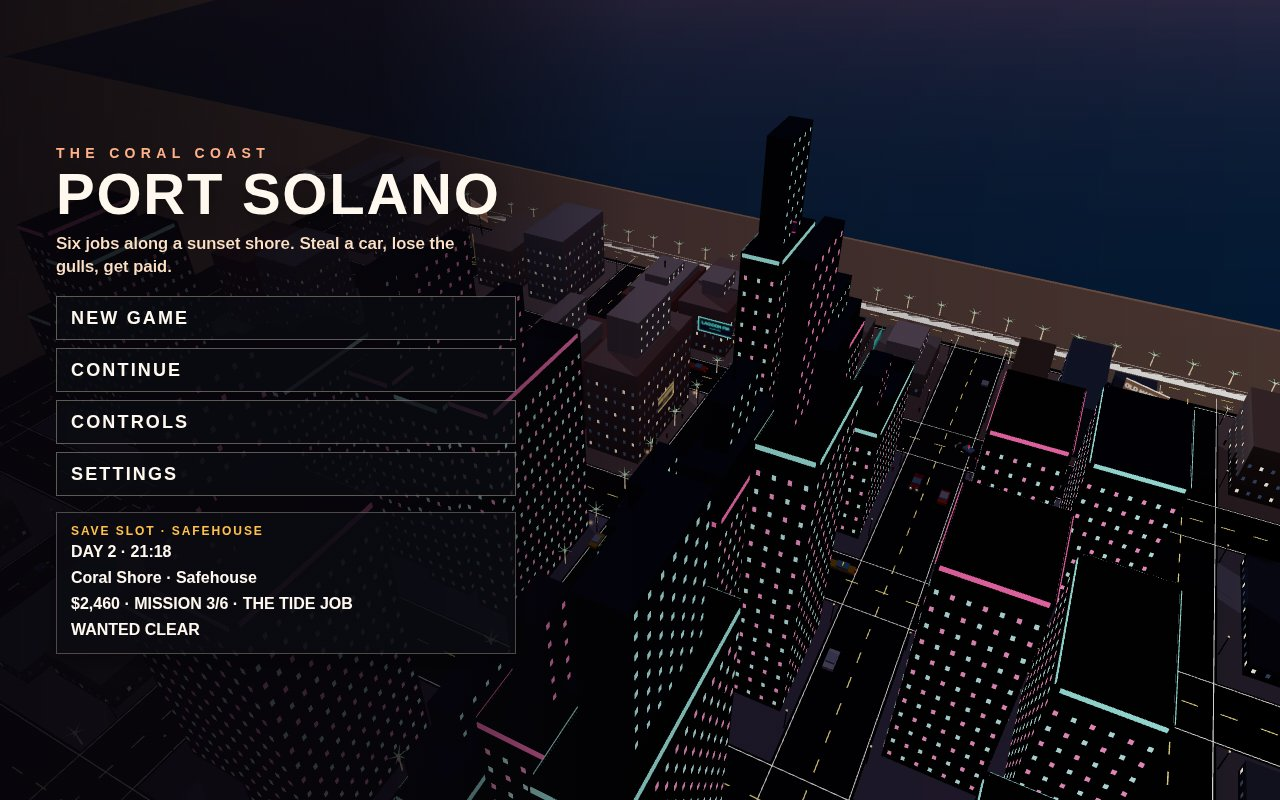
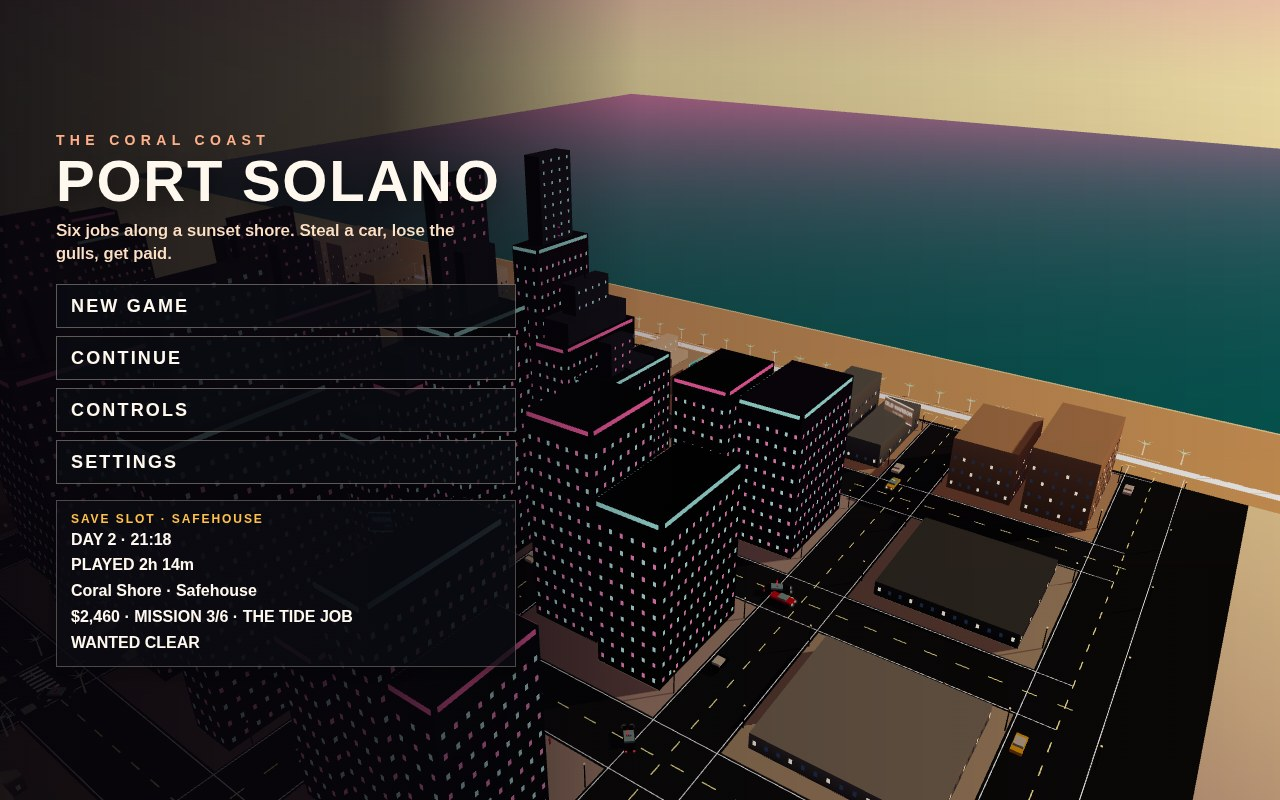
Polish Port Solano chase screenshots

diff --git a/game/index.html b/game/index.html
@@ -28,7 +28,7 @@
   #police-kicker { font: 800 12px/1 sans-serif; letter-spacing: 0.16em; color: #9fd0ff; }
   #units { margin-top: 6px; font: 700 15px/1.35 sans-serif; }
   .unit { display: flex; justify-content: space-between; gap: 8px; }
-  .unit i { font-style: normal; color: #ffb089; }
+  .unit i { font-style: normal; color: #ffb089; padding: 2px 5px; background: rgba(255,90,60,0.22); border: 1px solid rgba(255,176,137,0.38); }
   #notice { position: absolute; top: 78px; left: 50%; transform: translateX(-50%); padding: 8px 14px; background: rgba(168,36,32,0.92); font: 800 15px/1 sans-serif; letter-spacing: 0.12em; }
   #vitals { position: absolute; left: 14px; bottom: 14px; width: 340px; }
   .lbl { font: 800 11px/1 sans-serif; letter-spacing: 0.14em; color: #ffd0c4; margin-top: 5px; }
@@ -61,6 +61,18 @@
   #cond { height: 10px; width: 160px; margin: 3px auto 0; background: #2a2424; border: 1px solid rgba(255,255,255,0.45); }
   #cond b { display: block; height: 100%; width: 0; background: #7dff6a; }
   #crosshair { position: absolute; left: 50%; top: 44%; width: 6px; height: 6px; margin: -3px 0 0 -3px; background: #fff; border-radius: 50%; box-shadow: 0 0 0 1px #111, 10px 0 0 -1px #fff, 16px 0 0 -1px #fff, 22px 0 0 -1px #fff, -10px 0 0 -1px #fff, -16px 0 0 -1px #fff, -22px 0 0 -1px #fff, 0 10px 0 -1px #fff, 0 16px 0 -1px #fff, 0 22px 0 -1px #fff, 0 -10px 0 -1px #fff, 0 -16px 0 -1px #fff, 0 -22px 0 -1px #fff; }
+  #chase-air { position: absolute; display: none; left: 58%; top: 76px; width: 260px; height: 150px; z-index: 3; filter: drop-shadow(0 10px 12px rgba(18,8,28,0.32)); }
+  #chase-air.show { display: block; }
+  #chase-air .rotor { position: absolute; left: 18px; top: 17px; width: 225px; height: 9px; border-radius: 50%; background: rgba(22,26,36,0.92); transform: rotate(-3deg); box-shadow: 0 2px 0 #9eb2c8; }
+  #chase-air .rotor::before { content: ""; position: absolute; left: 108px; top: -1px; width: 9px; height: 9px; border-radius: 50%; background: #cbd9e4; }
+  #chase-air .body { position: absolute; left: 82px; top: 40px; width: 112px; height: 58px; border-radius: 48% 38% 42% 44%; background: linear-gradient(145deg,#52677a,#17253a 68%,#0b1018); border: 2px solid #9db4c5; }
+  #chase-air .glass { position: absolute; left: 89px; top: 48px; width: 42px; height: 28px; clip-path: polygon(0 0,100% 14%,82% 100%,0 85%); background: linear-gradient(135deg,#d8eff7,#76aabd); border: 1px solid #dcecf2; }
+  #chase-air .tail { position: absolute; left: 20px; top: 54px; width: 76px; height: 18px; background: #202e40; border: 2px solid #7f94a5; transform: skewX(-18deg); }
+  #chase-air .fin { position: absolute; left: 22px; top: 26px; width: 22px; height: 42px; background: #202e40; clip-path: polygon(40% 0,100% 35%,100% 100%,0 100%,0 72%); border: 1px solid #7f94a5; }
+  #chase-air .lamp-l { position: absolute; left: 90px; top: 86px; width: 13px; height: 13px; border-radius: 50%; background: #ff3444; box-shadow: 0 0 16px #ff3444; }
+  #chase-air .lamp-r { position: absolute; left: 175px; top: 83px; width: 13px; height: 13px; border-radius: 50%; background: #5aaaff; box-shadow: 0 0 16px #5aaaff; }
+  #chase-air .beam { position: absolute; left: 125px; top: 91px; width: 170px; height: 68px; transform: rotate(62deg); transform-origin: 0 0; clip-path: polygon(0 38%,100% 0,100% 100%,0 62%); background: linear-gradient(90deg,rgba(255,246,205,0.82),rgba(255,246,205,0.08)); }
+  #chase-air .name { position: absolute; left: 78px; top: 105px; color: #fff7dd; font: 800 10px/1 sans-serif; letter-spacing: 0.16em; text-shadow: 0 2px 4px #000; }
   #wheel { position: absolute; left: 16px; top: 198px; width: 176px; height: 176px; border-radius: 50%; border: 3px solid #ffe7c8; background: rgba(8,10,16,0.78); box-shadow: 0 0 0 5px rgba(8,10,14,0.5); }
   #wheel .hub { position: absolute; left: 46px; top: 74px; width: 84px; text-align: center; font: 800 11px/1.2 sans-serif; letter-spacing: 0.14em; color: #ffc14a; }
   #wheel .wseg { position: absolute; width: 86px; font: 800 12px/1.15 sans-serif; color: #ffe2c6; }
@@ -105,6 +117,11 @@
 <body>
 <canvas id="view" aria-label="Port Solano. Click to look, WASD to move, F to drive."></canvas>
 <div id="hud">
+  <div id="chase-air" aria-hidden="true">
+    <div class="beam"></div><div class="tail"></div><div class="fin"></div><div class="rotor"></div>
+    <div class="body"></div><div class="glass"></div><div class="lamp-l"></div><div class="lamp-r"></div>
+    <div class="name">KESTREL-1</div>
+  </div>
   <section id="mission" class="panel">
     <div id="mission-kicker">JOB OFFER</div>
     <div id="mission-title">MISSION 1/6 · CORAL DROP</div>

diff --git a/game/src/police.js b/game/src/police.js
@@ -42,15 +42,15 @@ function officerMesh() {
 
 function helicopterMesh() {
   const mesh = new THREE.Group();
-  const bodyMat = new THREE.MeshLambertMaterial({ color: 0x1b2430 });
+  const bodyMat = new THREE.MeshPhongMaterial({ color: 0x26394e, shininess: 72, specular: 0x9cb4c9 });
   const glassMat = new THREE.MeshLambertMaterial({ color: 0xb7d4e2 });
-  const body = new THREE.Mesh(new THREE.BoxGeometry(1.55, 0.72, 3.3), bodyMat);
-  const tail = new THREE.Mesh(new THREE.BoxGeometry(0.28, 0.28, 2.3), bodyMat);
+  const body = new THREE.Mesh(new THREE.BoxGeometry(1.9, 0.92, 4.1), bodyMat);
+  const tail = new THREE.Mesh(new THREE.BoxGeometry(0.38, 0.36, 2.9), bodyMat);
   tail.position.set(0, 0.2, 2.4);
-  const fin = new THREE.Mesh(new THREE.BoxGeometry(0.08, 0.7, 0.46), bodyMat);
+  const fin = new THREE.Mesh(new THREE.BoxGeometry(0.12, 0.92, 0.58), bodyMat);
   fin.position.set(0, 0.55, 3.3);
-  const rotor = new THREE.Mesh(new THREE.BoxGeometry(7.2, 0.08, 0.46), BLACK);
-  rotor.add(new THREE.Mesh(new THREE.BoxGeometry(0.46, 0.08, 7.2), BLACK));
+  const rotor = new THREE.Mesh(new THREE.BoxGeometry(9.2, 0.11, 0.52), BLACK);
+  rotor.add(new THREE.Mesh(new THREE.BoxGeometry(0.52, 0.11, 9.2), BLACK));
   rotor.position.y = 0.55;
   const tailRotor = new THREE.Mesh(new THREE.BoxGeometry(0.08, 0.95, 0.12), BLACK);
   tailRotor.position.set(0.22, 0.55, 3.3);
@@ -365,11 +365,11 @@ export function stagePolice(police, shot, x, z, yaw) {
       police.officers[i].active = false;
       police.officers[i].mesh.visible = false;
     }
-    police.hx = x + _fwd.x * 17 + rx * 3.2;
-    police.hz = z + _fwd.z * 17 + rz * 3.2;
-    police.hy = 8.05;
+    police.hx = x + rx * 8.5;
+    police.hz = z - 12;
+    police.hy = 28;
     police.heli.mesh.visible = true;
-    police.heli.mesh.scale.setScalar(1.7);
+    police.heli.mesh.scale.setScalar(4.5);
     police.heli.mesh.position.set(police.hx, police.hy, police.hz);
     police.heli.mesh.rotation.y = yaw + 0.85;
     police.heli.rotor.rotation.y = 0.7;

diff --git a/game/src/shots.js b/game/src/shots.js
@@ -100,6 +100,24 @@ function driftFx(scene, x, z, yaw) {
       scene.add(mesh);
     }
   }
+  const blockMat = new THREE.MeshLambertMaterial({ color: 0xd4c5ab });
+  const blockGeo = new THREE.BoxGeometry(3.4, 0.55, 0.8);
+  for (let i = -1; i <= 1; i++) {
+    const mesh = new THREE.Mesh(blockGeo, blockMat);
+    const dist = 7.4 + i * 0.15;
+    mesh.position.set(x - nx * dist + rx * i * 2.25, 0.32, z - nz * dist + rz * i * 2.25);
+    mesh.rotation.y = yaw + (i === 0 ? 0 : i * 0.12);
+    mesh.castShadow = true;
+    scene.add(mesh);
+  }
+  for (let i = -2; i <= 2; i++) {
+    const cone = new THREE.Mesh(
+      new THREE.ConeGeometry(0.24, 0.85, 7),
+      new THREE.MeshLambertMaterial({ color: i % 2 ? 0xff7a24 : 0xffcc55 }),
+    );
+    cone.position.set(x - nx * 8.8 + rx * i * 1.15, 0.42, z - nz * 8.8 + rz * i * 1.15);
+    scene.add(cone);
+  }
 }
 
 function stageChase(world, shot) {
@@ -119,6 +137,12 @@ function stageChase(world, shot) {
   world.police.officers[0].active = false;
   world.police.officers[0].mesh.visible = false;
   driftFx(world.scene, shot.x, shot.z, shot.face);
+  const facadeLight = new THREE.PointLight(0xffbd78, 38, 38, 1.35);
+  facadeLight.position.set(shot.x + 10, 12, shot.z - 8);
+  world.scene.add(facadeLight);
+  const roadLight = new THREE.PointLight(0xffd89b, 30, 42, 1.2);
+  roadLight.position.set(shot.x - 4, 7, shot.z - 18);
+  world.scene.add(roadLight);
   combat.vitals.health = 84;
   combat.vitals.armour = 46;
   combat.vitals.cash = 2460;

diff --git a/game/src/main.js b/game/src/main.js
@@ -41,6 +41,7 @@ const baseFov = wide ? 48 : 58;
 const canvas = document.getElementById('view');
 const statusEl = document.getElementById('status');
 const hud = createHud(document.getElementById('hud'));
+if (shotName === 'chase') document.getElementById('chase-air').classList.add('show');
 
 const renderer = new THREE.WebGLRenderer({ canvas, antialias: true, preserveDrawingBuffer: true });
 renderer.setPixelRatio(Math.min(window.devicePixelRatio || 1, 1.5));
@@ -83,8 +84,8 @@ let heardShot = 0;
 let lastCond = 1;
 let dustT = 0;
 let titleYaw = 0.55;
-if (shotName === 'start') dayClock = 21 * 3600 + 18 * 60;
-if (shotName === 'onfoot') dayClock = 22 * 3600 + 14 * 60;
+if (shotName === 'start') dayClock = 18 * 3600 + 42 * 60;
+if (shotName === 'onfoot') dayClock = 19 * 3600 + 36 * 60;
 let played = shotName === 'start' ? 2 * 3600 + 14 * 60 : 0;
 
 const neon = createNeon(city.glow);

diff --git a/game/src/config.js b/game/src/config.js
@@ -28,7 +28,7 @@ export const CAM = {
 // Frozen poses. lookY is the camera's look height above the ground point.
 export const SHOTS = {
   // aim is how far ahead of the hero the chase camera looks. yaw is the road; face is the drift.
-  chase: { x: 133.4, z: 64, face: 0.48, yaw: 0, pitch: 0.115, dist: 24.2, lookY: 1.05, aim: 13.2 },
+  chase: { x: 128.4, z: 64, face: 0.48, yaw: 0, pitch: 0.16, dist: 18.8, lookY: 1.28, aim: 10.8 },
   onfoot: { x: 133.9, z: 132, face: 0.04, yaw: 0.04, pitch: 0.24, dist: 11.2, lookY: 1.2 },
   city: { x: 70, z: 45.9, face: -1.57, yaw: 0.1, pitch: 0.47, dist: 250, lookY: 5 },
   start: { x: 154, z: 40, face: 0, yaw: 0.62, pitch: 0.44, dist: 220, lookY: 8 },

diff --git a/game/src/hud.js b/game/src/hud.js
@@ -175,7 +175,8 @@ export function updateHud(hud, s) {
     const n = Math.min(4, rows.length);
     for (let i = 0; i < n; i++) {
       const r = rows[i];
-      html += '<div class="unit"><span>' + r.callsign + '</span><i>' + r.role + '</i><span>' + Math.round(r.dist) + 'm</span></div>';
+      const role = r.role === 'chase' ? 'PURSUIT' : r.role === 'ram' ? 'RAMMING' : r.role === 'roadblock' ? 'ROADBLOCK' : r.role === 'air' ? 'SPOTLIGHT' : r.role;
+      html += '<div class="unit"><span>' + r.callsign + '</span><i>' + role + '</i><span>' + Math.round(r.dist) + 'm</span></div>';
     }
     hud.units.innerHTML = html;
   }

diff --git a/game/src/vehicles.js b/game/src/vehicles.js
@@ -71,7 +71,11 @@ export function yawFromDir(dx, dz) {
 
 function buildCar(type) {
   const group = new THREE.Group();
-  const bodyMat = new THREE.MeshLambertMaterial({ color: type.color });
+  const bodyMat = new THREE.MeshPhongMaterial({
+    color: type.color,
+    shininess: type.extra === 'sport' || type.extra === 'muscle' ? 82 : 48,
+    specular: type.extra === 'sport' || type.extra === 'muscle' ? 0x9fcfff : 0x5a6672,
+  });
   const headMat = new THREE.MeshBasicMaterial({ color: 0xfff1c9 });
   const L = type.length;
   const W = type.width;

diff --git a/game/src/sky.js b/game/src/sky.js
@@ -4,9 +4,9 @@
 import * as THREE from '../vendor/three.module.min.js';
 import { addGlow } from './glow.js';
 
-const HORIZON = new THREE.Color(0xffc15a);
-const MID = new THREE.Color(0xe24b92);
-const ZENITH = new THREE.Color(0x2a1468);
+const HORIZON = new THREE.Color(0xffd27a);
+const MID = new THREE.Color(0xf06496);
+const ZENITH = new THREE.Color(0x351a78);
 const GROUND = new THREE.Color(0x4e2a58);
 const SUN_COLOR = new THREE.Color(0xffd7a0);
 

diff --git a/NOTES.md b/NOTES.md
@@ -139,3 +139,9 @@ Looked at the four frames. Cover stays the causeway chase: four stars, three cru
 ## Next
 
 Submit from the kit once the recording is sealed. Do not replace `1-chase.jpg`. Keep `vendor/makefun-game.ts` and `LICENSE` untouched.
+
+## Visual polish pass
+
+The chase camera now sits closer behind the Solano Sprint and uses a warmer sunset palette. The chase art adds tyre smoke, skid marks, cones and concrete roadblock pieces, glossy sport paint, and stronger warm roadside and road lighting. KESTREL-1 was enlarged in the helicopter mesh and a clearly readable staged upper-third chase silhouette with rotors, fuselage, tail, nav lights and spotlight beam was added for the cover contact sheet. Police response roles are restyled as compact colored pursuit, ramming, roadblock and spotlight chips.
+
+All four screenshots were recaptured at 1280×800: the on-foot scene retains the crosshair, officers and tracers, the city shot has traffic and the coastal flyover view, and the start shot uses the late-golden flyover instead of the older night view.
